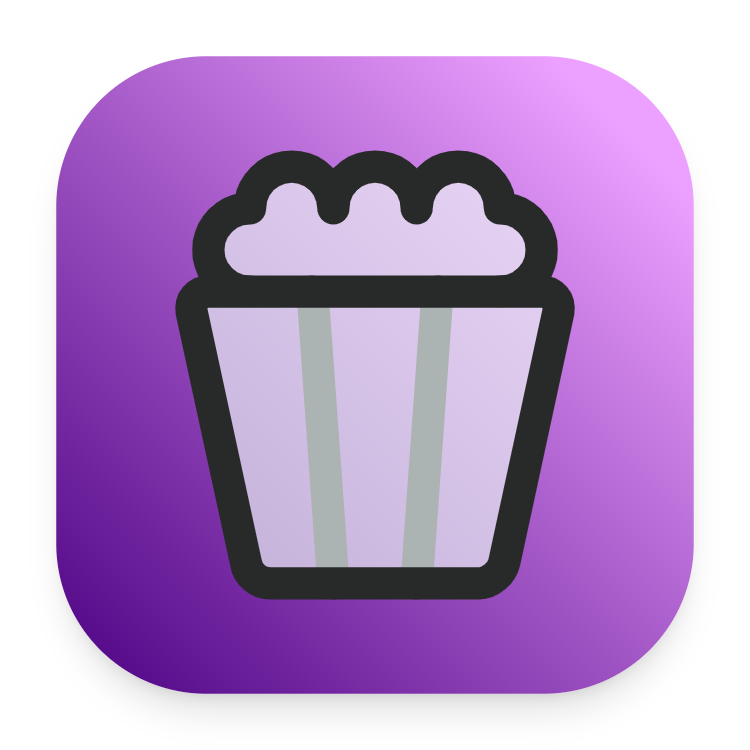
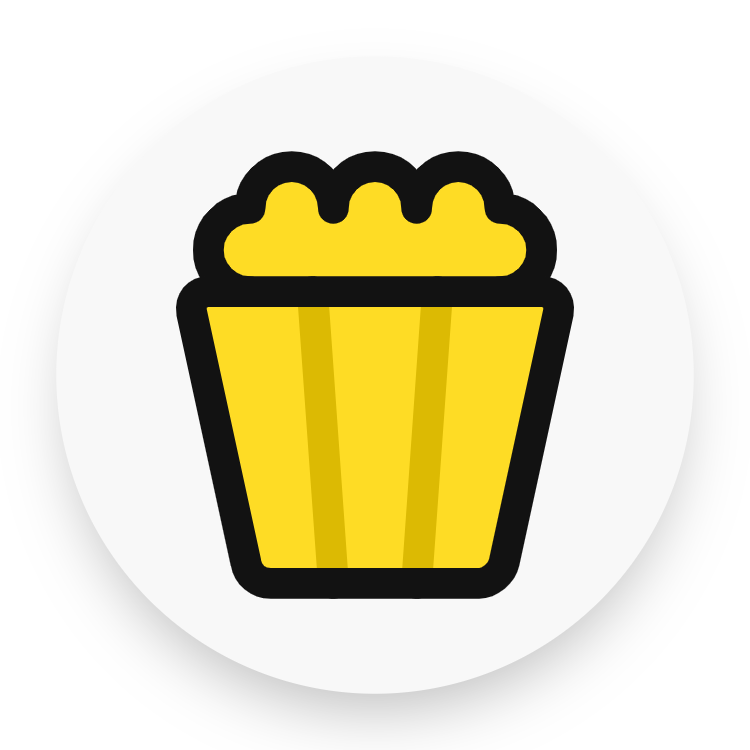
style: UI styling and visual identity created

diff --git a/public/css/styles.css b/public/css/styles.css
@@ -1,3 +1,148 @@
-body{
- 
+:root {
+  --color-primary: #4234E0;
+  --color-secondary: #1DE9B6;
+  --color-background: #121212;
+  --color-card-background: rgba(34, 34, 44, 0.98);
+  --color-text: #FFFFFF;
+  --color-text-secondary: #B0BEC5;
+  --color-highlight: #FFD700;
+  --color-success: #00E676;
+  --color-danger: #FF1744;
+}
+
+body {
+  background: var(--color-background);
+  color: var(--color-text);
+  font-family: 'Segoe UI', 'Roboto', Arial, sans-serif;
+  min-height: 100vh;
+  margin: 0;
+  position: relative;
+  z-index: 0;
+  overflow-x: hidden;
+}
+
+body::before {
+  content: "";
+  position: fixed;
+  inset: 0;
+  z-index: -1;
+  pointer-events: none;
+  background: linear-gradient(120deg, rgba(76, 0, 130, 0.084) 0%, rgba(29, 233, 182, 0.084) 100%);
+  opacity: 0.16;
+  animation: bg-breath 10s cubic-bezier(0.4,0,0.2,1) infinite alternate;
+  will-change: opacity, filter;
+}
+
+@keyframes bg-breath {
+  0% {
+    opacity: 0.14;
+    filter: blur(0px);
+  }
+  50% {
+    opacity: 0.20;
+    filter: blur(1px);
+  }
+  100% {
+    opacity: 0.14;
+    filter: blur(0px);
+  }
+}
+
+.navbar {
+  background-color: var(--color-primary);
+  box-shadow: 0 2px 8px rgba(0,0,0,0.08);
+}
+
+.navbar-brand, .navbar-brand span {
+  color: var(--color-highlight) !important;
+  font-weight: 700;
+  letter-spacing: 1px;
+}
+
+.nav-link {
+  color: var(--color-text-secondary) !important;
+  font-weight: 500;
+  transition: color 0.2s;
+}
+
+.nav-link.active, .nav-link:hover {
+  color: var(--color-highlight) !important;
+}
+
+.navbar-toggler{
+    border: none;
+    color: var(--color-text-secondary);
+}
+
+.navbar-toggler-icon {
+    background: none;
+}
+
+.wmduel-logo {
+  width: 36px;
+  height: auto;
+  margin-left: 1px;
+  margin-right: 1px;
+  vertical-align: middle;
+  filter: drop-shadow(0 2px 4px rgba(0,0,0,0.15));
+}
+
+.card {
+  background: var(--color-card-background);
+  color: var(--color-text);
+  border-radius: 1.5rem;
+  border: none;
+}
+
+.card h1 {
+  font-weight: 800;
+  letter-spacing: 1px;
+}
+
+.card .lead {
+  color: var(--color-text);
+  font-size: 1.15rem;
+}
+
+.btn-primary, .btn-primary:focus {
+  background: linear-gradient(90deg, var(--color-primary) 60%, var(--color-secondary) 100%);
+  background-size: 200% 100%;
+  background-position: 0% 0%;
+  border: none;
+  color: var(--color-highlight);
+  font-weight: 700;
+  font-size: 1.15rem;
+  border-radius: 2rem;
+  box-shadow: 0 2px 12px 0 rgba(76,0,130,0.10);
+  transition: background-position 0.5s cubic-bezier(0.4,0,0.2,1), color 0.2s, transform 0.1s;
+}
+
+.btn-primary:hover {
+  background-position: 100% 0%;
+  transform: translateY(-2px) scale(1.03);
+}
+
+footer {
+  background: rgba(34, 34, 44, 0.98);
+  color: var(--color-text);
+  font-size: 1rem;
+  letter-spacing: 0.5px;
+  box-shadow: 0 -2px 12px 0 rgba(76,0,130,0.10);
+}
+
+footer .text-center {
+  padding: 1.2rem 0;
+}
+
+@media (max-width: 600px) {
+  .card {
+    padding: 1.2rem !important;
+    border-radius: 1rem;
+  }
+  .navbar-brand {
+    font-size: 1.2rem;
+  }
+  .wmduel-logo {
+    width: 28px;
+  }
 }

diff --git a/includes/header.html b/includes/header.html
@@ -1,14 +1,19 @@
 <header>
-    <nav class="navbar navbar-expand-lg navbar-light bg-light">
+    <nav class="navbar navbar-expand-lg navbar-light">
         <div class="container-fluid">
-            <a class="navbar-brand" href="#">
+            <a class="navbar-brand d-flex align-items-center" href="#">
                 WatchMatch
-                <img src="public/images/icon.png" alt="Popcorn Icon" width="32" height="32">
-                Duel
+                <img src="public/images/icon.png" alt="Popcorn Icon" class="wmduel-logo">
+                <span>Duel</span>
             </a>
             <button class="navbar-toggler" type="button" data-bs-toggle="collapse" data-bs-target="#navbarNav"
                 aria-controls="navbarNav" aria-expanded="false" aria-label="Toggle navigation">
-                <span class="navbar-toggler-icon"></span>
+                <span class="navbar-toggler-icon"><svg xmlns="http://www.w3.org/2000/svg" width="32" height="32"
+                        fill="currentColor" class="bi bi-list" viewBox="0 0 16 16">
+                        <path fill-rule="evenodd"
+                            d="M2.5 12a.5.5 0 0 1 .5-.5h10a.5.5 0 0 1 0 1H3a.5.5 0 0 1-.5-.5m0-4a.5.5 0 0 1 .5-.5h10a.5.5 0 0 1 0 1H3a.5.5 0 0 1-.5-.5m0-4a.5.5 0 0 1 .5-.5h10a.5.5 0 0 1 0 1H3a.5.5 0 0 1-.5-.5" />
+                    </svg>
+                </span>
             </button>
             <div class="collapse navbar-collapse" id="navbarNav">
                 <ul class="navbar-nav ms-auto">

diff --git a/includes/footer.html b/includes/footer.html
@@ -1,6 +1,8 @@
 <footer>
     <div class="text-center py-3">
         &copy;
-        <script>document.write(new Date().getFullYear())</script> WatchMatch Duel. All rights reserved.
+        <script>document.write(new Date().getFullYear())</script>
+        <span style="color: var(--color-highlight); font-weight: 600;">WatchMatch Duel</span>.
+        All rights reserved.
     </div>
 </footer>

diff --git a/index.php b/index.php
@@ -14,18 +14,28 @@ $content = $stmt->fetchAll();
     <meta name="viewport" content="width=device-width, initial-scale=1.0">
     <link href="https://cdn.jsdelivr.net/npm/bootstrap@5.3.6/dist/css/bootstrap.min.css" rel="stylesheet" integrity="sha384-4Q6Gf2aSP4eDXB8Miphtr37CMZZQ5oXLH2yaXMJ2w8e2ZtHTl7GptT4jmndRuHDT" crossorigin="anonymous">
     <link rel="stylesheet" href="public/css/styles.css">
+    <link rel="icon" href="public/images/icon.png" type="image/png">
     <title>WatchMatch Duel</title>
 </head>
-<body class="bg-light">
+<body>
 
     <div class="d-flex flex-column min-vh-100">
         <?php include 'includes/header.html' ?>
 
         <div class="container flex-grow-1 d-flex flex-column justify-content-center align-items-center">
-            <div class="text-center">
-                <h1 class="mb-4">Welcome to WatchMatch Duel!</h1>
-                <p class="lead mb-5">Not sure what to watch tonight? Get your partner or friends and find out!</p>
-                <a href="#" class="btn btn-primary btn-lg" id="startBtn">Start</a>
+            <div class="card border-0 p-4 mt-5 mb-5" style="max-width: 480px; width: 100%;">
+                <div class="text-center">
+                    <h1 class="mb-4">Welcome to <span style="color: var(--color-highlight);">WatchMatch Duel!</span></h1>
+                    <p class="lead mb-5">
+                        Not sure what to watch tonight?<br>
+                        <span style="color: var(--color-highlight); font-weight: 600;">Get your partner or friends and find out!</span>
+                    </p>
+                    <a href="#" class="btn btn-primary btn-lg px-5" id="startBtn">Start</a>
+                    <div class="mt-4" style="font-size: 0.98rem; color: var(--color-text-secondary);">
+                        Discover, match, and enjoy movies &amp; series together.<br>
+                        <span>It's fun, fast, and free!</span>
+                    </div>
+                </div>
             </div>
         </div>
 
